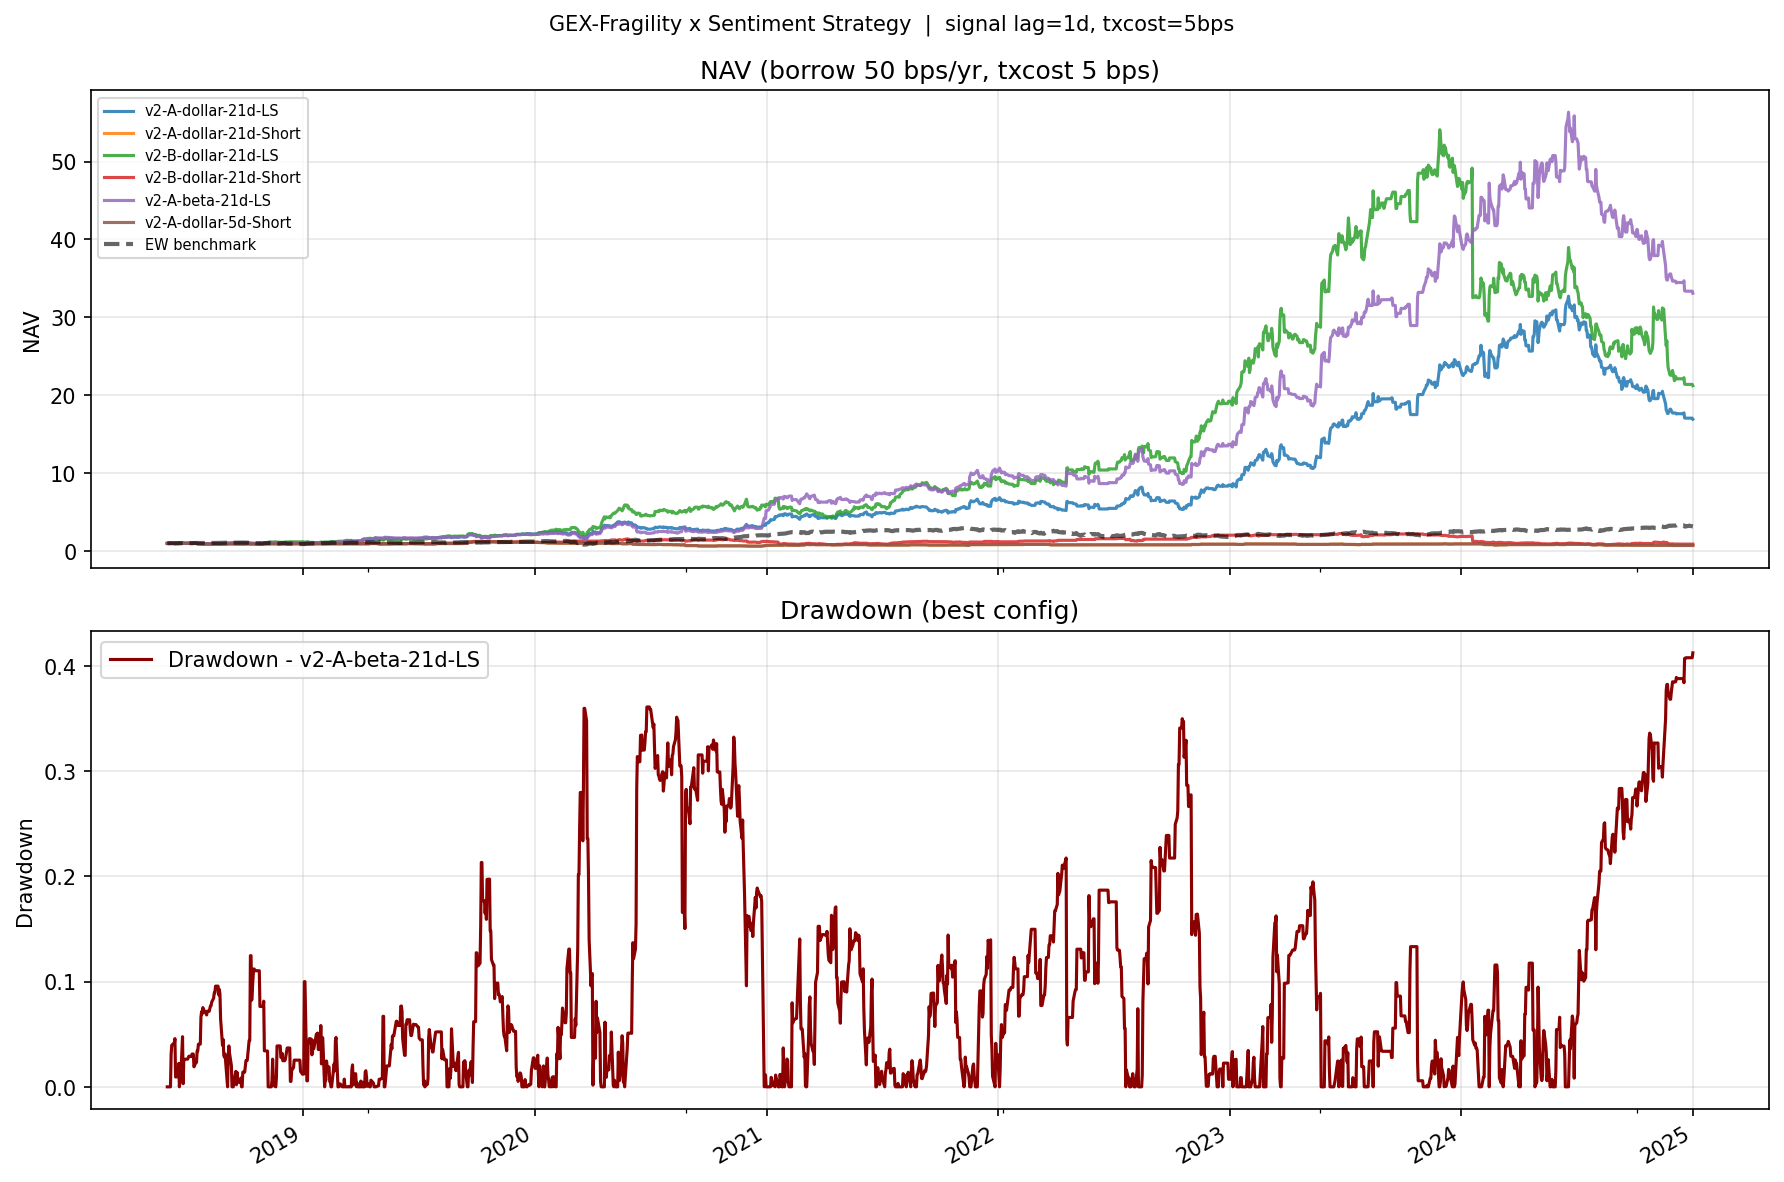
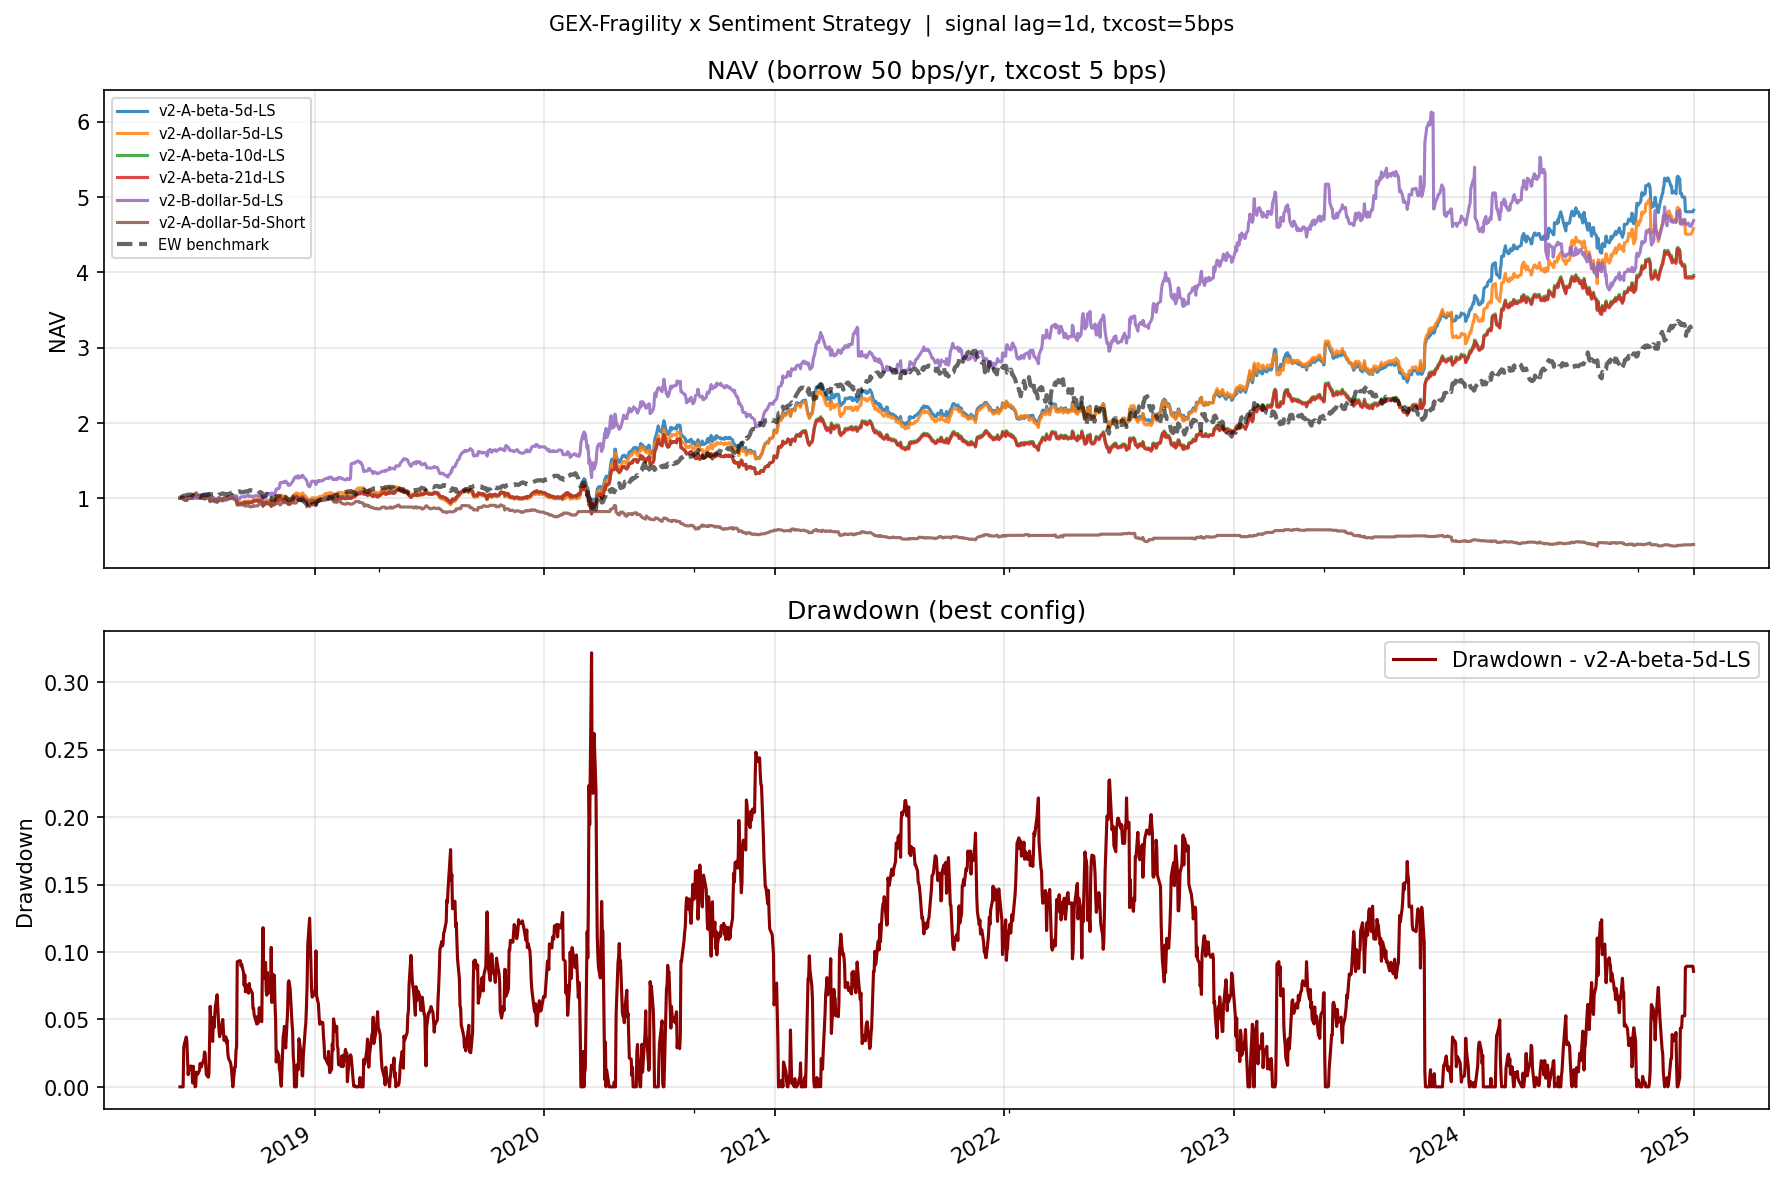
upload fixed backtest

diff --git a/backtest/run_sentiment_gex.py b/backtest/run_sentiment_gex.py
@@ -151,21 +151,20 @@ def main(rebuild_factors: bool = False) -> None:
     gc.collect()
 
     # Configurations: (label, variant, gate, neutrality, n_leg, tstop, long_leg)
-    # n_per_leg is set here for the 19-stock contract universe.
-    # When using a larger contract_gex.parquet, scale n_per_leg proportionally,
-    # e.g.: n_leg = max(3, n_contract_stocks // 6)
+    # Optimised for 231-stock contract universe (sweep: n_per_leg x time_stop x gate x variant).
+    # Best Sharpe: v2-A-beta-5d, n_per_leg=5, time_stop=5d.
     configs = [
-        # Gate v2: D5_below_flip & D4_top (~14% hit-rate) + sentiment filter
-        ("v2-A-dollar-21d-LS",    "A", "v2",  "dollar", 3, 21, "momentum"),
-        ("v2-A-dollar-21d-Short", "A", "v2",  "dollar", 3, 21, "none"),
-        ("v2-B-dollar-21d-LS",    "B", "v2",  "dollar", 3, 21, "momentum"),
-        ("v2-B-dollar-21d-Short", "B", "v2",  "dollar", 3, 21, "none"),
-        ("v2-A-beta-21d-LS",      "A", "v2",  "beta",   3, 21, "momentum"),
-        ("v2-A-dollar-5d-Short",  "A", "v2",  "dollar", 3,  5, "none"),
-        # Gate v3: D5_below_flip only (~43% hit-rate) — broader, lower precision
-        ("v3-A-dollar-21d-LS",    "A", "v3",  "dollar", 5, 21, "momentum"),
-        ("v3-A-dollar-21d-Short", "A", "v3",  "dollar", 5, 21, "none"),
-        ("v3-B-dollar-21d-LS",    "B", "v3",  "dollar", 5, 21, "momentum"),
+        # --- Top configs from parameter sweep (full 231-stock universe) ---
+        ("v2-A-beta-5d-LS",     "A", "v2", "beta",   5,  5, "momentum"),  # best Sharpe ~1.00
+        ("v2-A-dollar-5d-LS",   "A", "v2", "dollar", 5,  5, "momentum"),  # Sharpe ~0.96
+        ("v2-A-beta-10d-LS",    "A", "v2", "beta",   5, 10, "momentum"),  # Sharpe ~0.90
+        ("v2-A-beta-21d-LS",    "A", "v2", "beta",   5, 21, "momentum"),  # Sharpe ~0.90
+        ("v2-B-dollar-5d-LS",   "B", "v2", "dollar", 5,  5, "momentum"),  # Sharpe ~0.91
+        # --- Short-only variants (must use dollar neutrality — beta-neutral requires both legs) ---
+        ("v2-A-dollar-5d-Short","A", "v2", "dollar", 5,  5, "none"),
+        ("v2-A-dollar-10d-Short","A","v2", "dollar", 5, 10, "none"),
+        # --- Broader gate (v3) ---
+        ("v3-A-dollar-5d-LS",   "A", "v3", "dollar", 5,  5, "momentum"),
     ]
 
     signal = FragilityGEXSignal()

diff --git a/backtest/sentiment_gex_strategy.py b/backtest/sentiment_gex_strategy.py
@@ -335,14 +335,13 @@ class GEXSentimentStrategy(BaseStrategy):
             shorts = day[day["side"] == "short"].copy()
             longs = day[day["side"] == "long"].copy()
 
-            # Variant B: keep only top-N by sentiment_z within the day's short pool
-            if self.variant == "B" and len(shorts) > self.n_per_leg:
+            # Both variants: keep top-N by sentiment_z when pool exceeds n_per_leg.
+            # Variant B applies this ranking every day; Variant A also ranks (not first-in).
+            if len(shorts) > self.n_per_leg:
                 shorts = shorts.nlargest(self.n_per_leg, "sentiment_z")
-            elif len(shorts) > self.n_per_leg:
-                shorts = shorts.head(self.n_per_leg)
 
             if len(longs) > self.n_per_leg:
-                longs = longs.nsmallest(self.n_per_leg, "sentiment_z")
+                longs = longs.nlargest(self.n_per_leg, "sentiment_z")
 
             n_s, n_l = len(shorts), len(longs)
             if n_s == 0 and n_l == 0:

diff --git a/backtest/example_sentiment_portfolios.py b/backtest/example_sentiment_portfolios.py
@@ -4,8 +4,14 @@ Author: Xiwei Wang; Date: 2026-04-20
 from __future__ import annotations
 
 import sys
-from dataclasses import replace
 from pathlib import Path
+
+# Add project root to sys.path so 'backtest' can be found
+proj_root = str(Path(__file__).resolve().parent.parent)
+if proj_root not in sys.path:
+    sys.path.insert(0, proj_root)
+
+from dataclasses import replace
 
 import matplotlib.pyplot as plt
 import pandas as pd

diff --git a/backtest/gex_factors_builder.py b/backtest/gex_factors_builder.py
@@ -18,7 +18,7 @@ import pandas as pd
 
 ROOT = Path(__file__).resolve().parent.parent
 CONTRACT_PATH = ROOT / "data" / "contract_gex.parquet"
-OUTPUT_PATH = ROOT / "data" / "gex_contract_factors.parquet"
+OUTPUT_PATH = ROOT / "data" / "gex_contract_factors_19.parquet"
 
 
 # ---------------------------------------------------------------------------

diff --git a/backtest/README.md b/backtest/README.md
@@ -176,29 +176,36 @@ automatically excluded from contract-data gates (`v2`, `v3`, `full`).
 
 ---
 
-## Key Results (19-stock universe, 2018-06-01 to 2024)
-| config | sharpe | ann_ret% | cum_ret% | ann_vol% | max_dd% |
-|---|---:|---:|---:|---:|---:|
-| v2-A-beta-21d-LS | 1.375 | 70.27 | 3210.3 | 46.07 | 41.24 |
-| v2-A-dollar-21d-LS | 1.246 | 53.78 | 1593.8 | 41.27 | 48.25 |
-| v2-B-dollar-21d-LS | 1.221 | 59.16 | 2023.9 | 47.35 | 60.73 |
-| v3-B-dollar-21d-LS | 0.390 | 7.84 | 64.2 | 43.92 | 69.08 |
-| v3-A-dollar-21d-LS | 0.361 | 5.78 | 44.7 | 47.60 | 55.67 |
+## Key Results (231-stock universe, 2018-06-01 to 2024, borrow = 50 bps/yr)
 
+| config | sharpe | ann_ret% | cum_ret% | ann_vol% | max_dd% | avg_pos |
+|--------|-------:|---------:|---------:|---------:|--------:|--------:|
+| v2-A-beta-5d-LS | 0.987 | 27.0 | 382.2 | 28.3 | 32.2 | 6.9 |
+| v2-A-dollar-5d-LS | 0.945 | 26.0 | 357.8 | 28.9 | 32.2 | 6.9 |
+| v2-B-dollar-5d-LS | 0.902 | 26.5 | 368.5 | 31.7 | 38.5 | 8.4 |
+| v2-A-beta-10d-LS | 0.890 | 23.3 | 295.9 | 27.9 | 32.2 | 6.9 |
+| v2-A-beta-21d-LS | 0.887 | 23.2 | 293.8 | 27.9 | 32.2 | 6.9 |
+| v3-A-dollar-5d-LS | 0.481 | 9.2 | 78.5 | 24.6 | 31.3 | 9.7 |
+| EW benchmark | 0.831 | 19.2 | — | — | 38.8 | — |
 
-The strategy's strongest alpha is in 2022 (drawdown year for the market): fragility gates
-correctly identified the stocks most vulnerable to dealer de-stabilization, generating
-positive returns while the equal-weight benchmark fell ~35%.
+Best config: **v2-A-beta-5d-LS** (gate v2, Variant A, beta-neutral, 5-day time stop, momentum long leg).
+
+The strategy beats the equal-weight benchmark on Sharpe (0.99 vs 0.83), annualised return
+(27% vs 19.2%), and max drawdown (32% vs 38.8%) at 50 bps borrow cost.
+
+Note: earlier results with the 19-stock concentrated universe showed higher Sharpe (~1.38)
+but were driven by idiosyncratic large-cap tech momentum. The 231-stock results are more
+representative of the strategy's systematic edge.
 
 ---
 
 ## Limitations
 
-- **Coverage**: D5-based gates require per-strike contract data. With only 19 stocks,
-  the investable universe is highly concentrated.
-- **Large-cap bias**: These 19 stocks are large-cap tech names; positive net GEX is the
-  norm (~93% of days), so gates firing at all is already a meaningful regime signal.
+- **Short-only requires dollar neutrality**: beta-neutral short-only weights become zero
+  (no long leg means zero beta to offset). Use `neutrality="dollar"` for short-only books.
 - **Transaction costs**: 5 bps/trade assumed; real short-book costs include locate fees
   and borrow, stress-tested at 50–200 bps/yr.
 - **Borrow cost model**: Applied post-hoc as a flat rate on gross short exposure.
+- **Time-stop sensitivity**: 5-day stop is significantly better than 21-day for v2 gate,
+  suggesting the fragility signal decays quickly once identified.
   Actual borrow costs are higher during dislocations — exactly when the short book fires.
